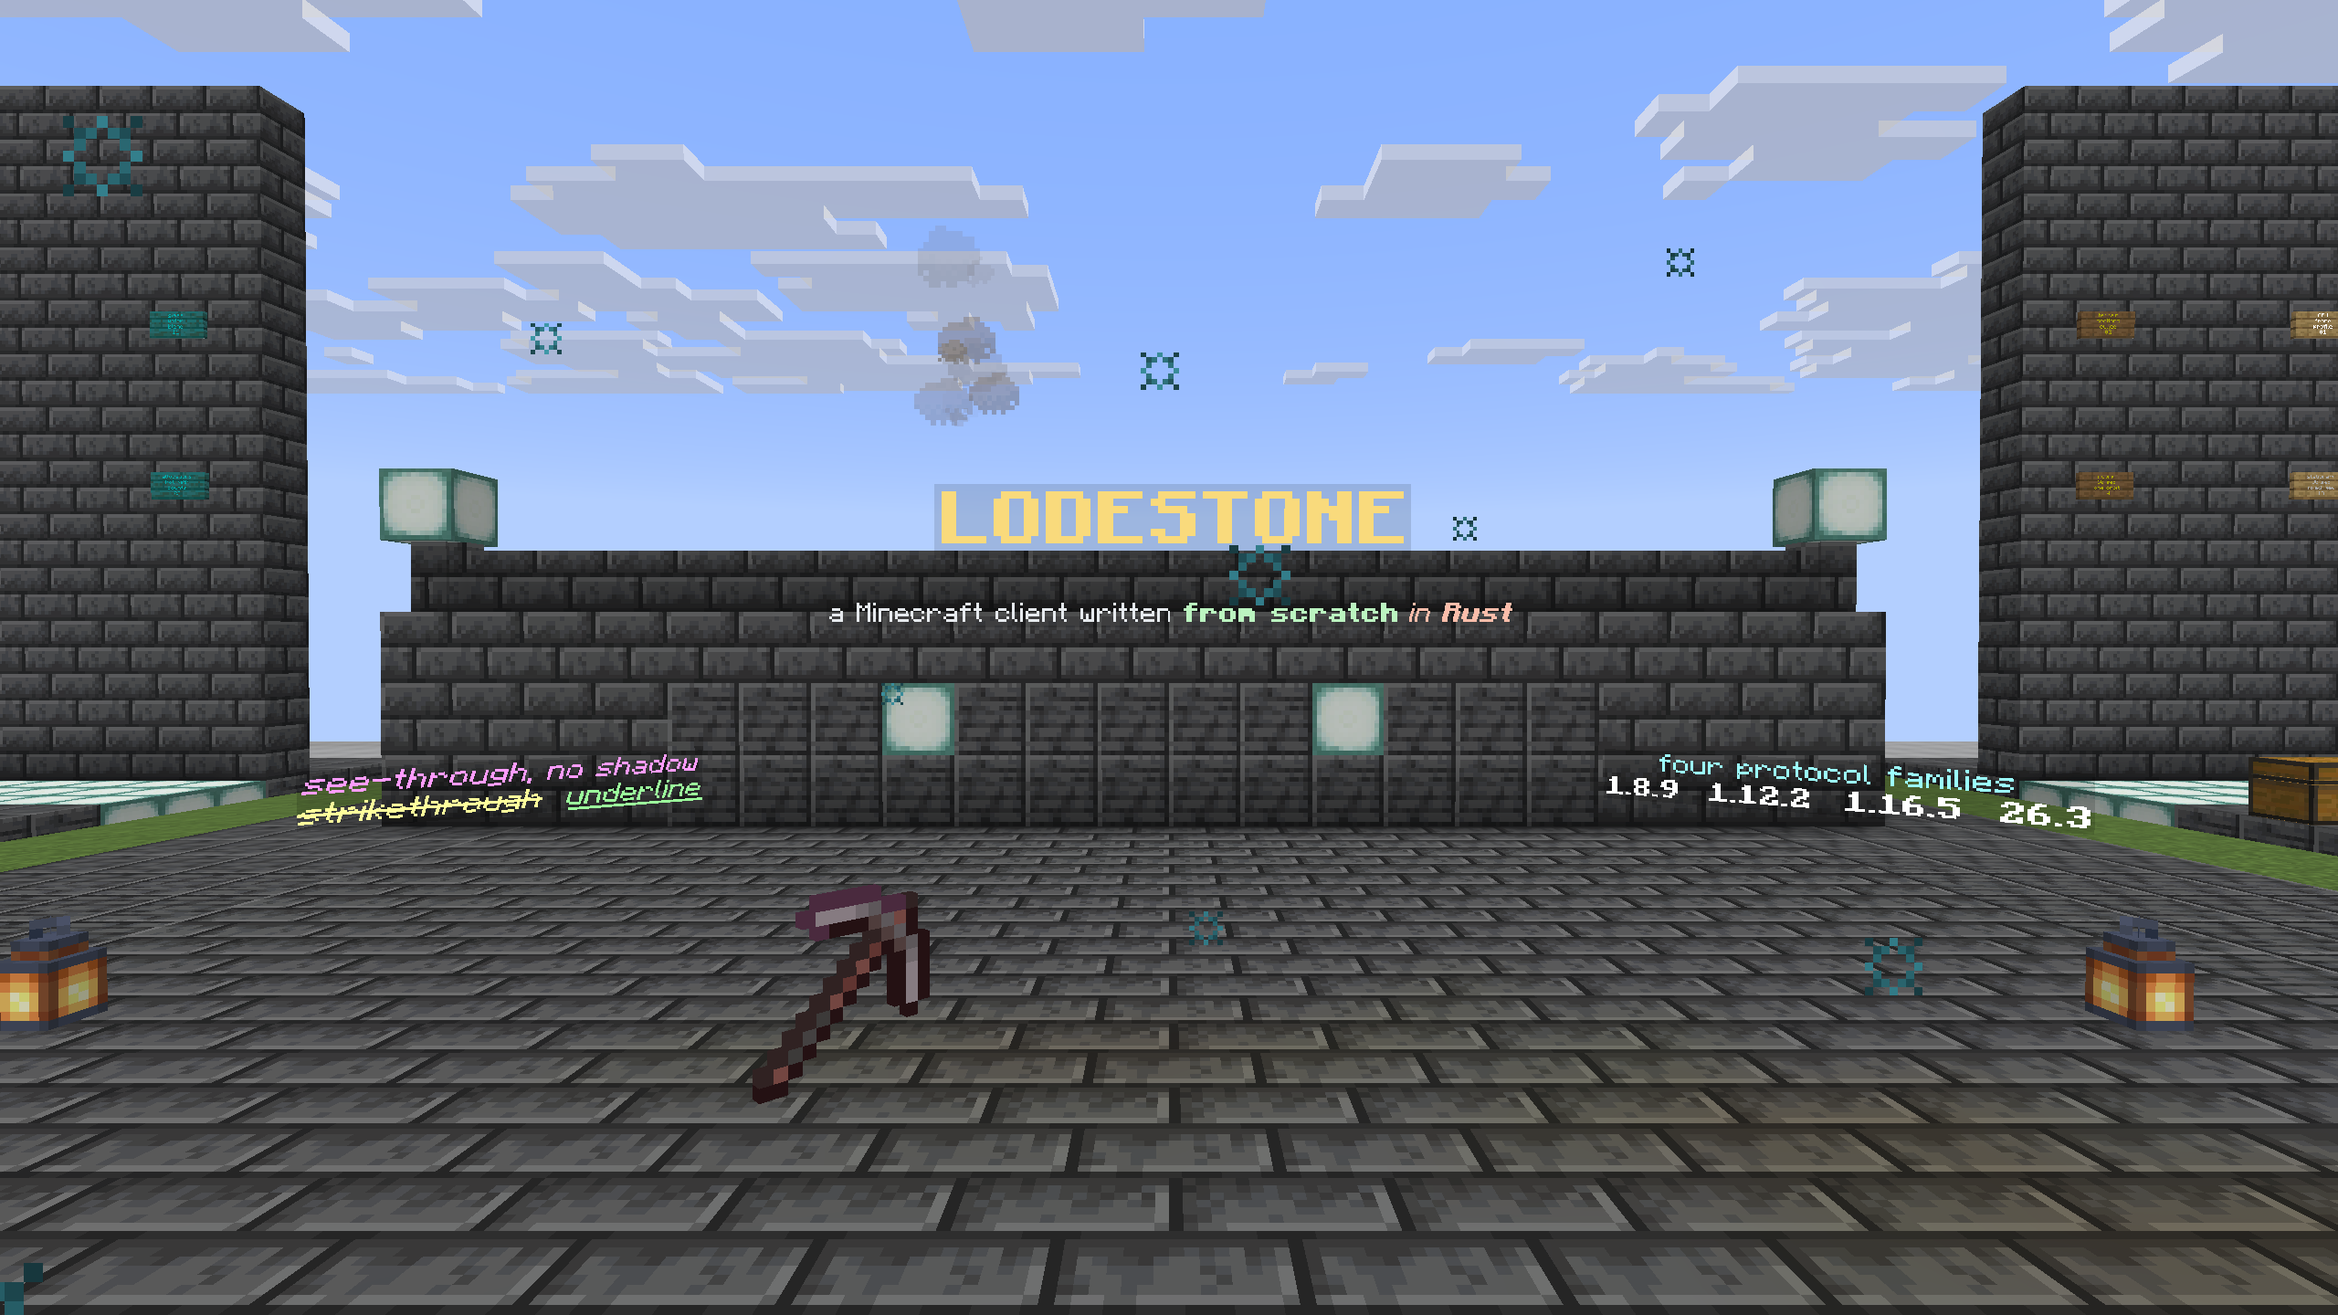
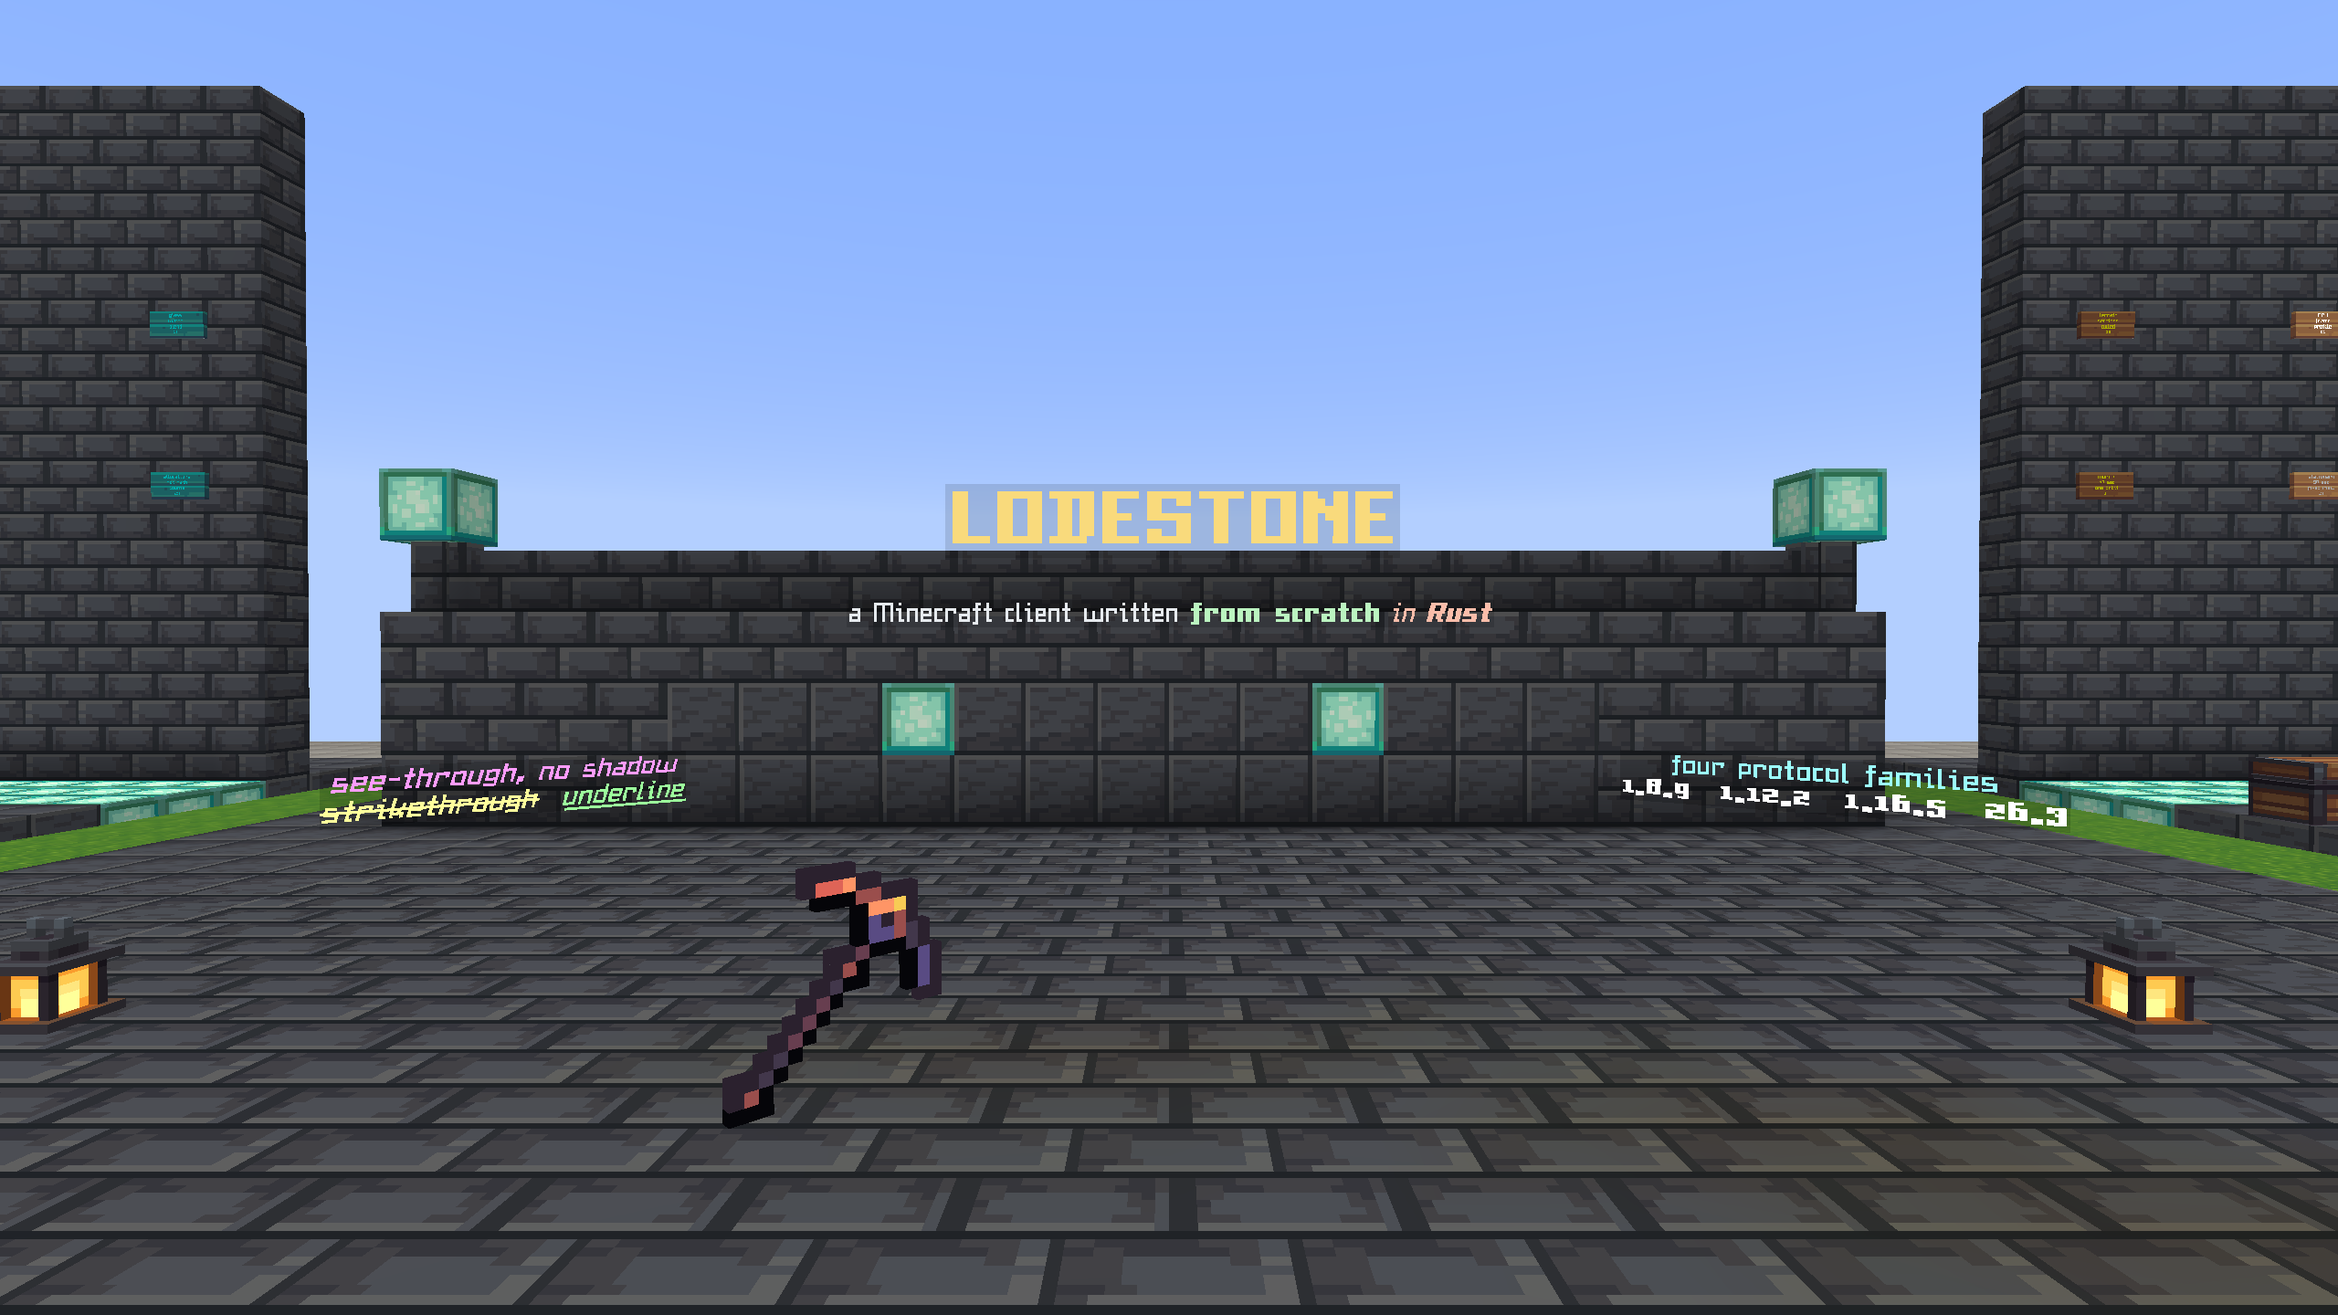
README capture is byte-reproducible: per-scene particle engine seed, command blocks disabled, companions drained and joined in order, tab-list ping pinned; committed images are the reproduced bytes

diff --git a/crates/lodestone-shell/tests/gpu/capture_screenshots.rs b/crates/lodestone-shell/tests/gpu/capture_screenshots.rs
@@ -87,7 +87,8 @@
 //!
 //! # Configuration
 //!
-//! `LODESTONE_SCENES` (optional filter). The oracle's ports and password are
+//! `LODESTONE_SCENES` (optional filter), `LODESTONE_CAPTURE_OUT` (optional output
+//! directory, default `docs/images`). The oracle's ports and password are
 //! the constants below, matching `scripts/live-oracles/creative.sh`. The
 //! harness clears its in-process selected resource packs before it constructs
 //! `Sim`, so committed PNGs always use the built-in 26.2 pack without changing
@@ -511,7 +512,9 @@ fn capture_configuration_uses_only_the_builtin_pack() {
 #[ignore = "capture harness: requires the flat creative 26.2 oracle on :25570 (+ RCON :25571), the vanilla assets under .cache/mc/<ver>, a GPU adapter, and `--features live`"]
 fn capture_readme_screenshots() {
     let scenes = scenes();
-    let out_dir = main_dir().join("docs/images");
+    let out_dir = std::env::var_os("LODESTONE_CAPTURE_OUT")
+        .map(std::path::PathBuf::from)
+        .unwrap_or_else(|| main_dir().join("docs/images"));
     std::fs::create_dir_all(&out_dir).expect("docs/images");
 
     let ctx = GpuContext::new_headless_blocking().expect(
@@ -553,6 +556,11 @@ fn capture_readme_screenshots() {
     checked(&mut rcon, "gamerule mob_drops false");
     checked(&mut rcon, "gamerule block_drops false");
     checked(&mut rcon, "gamerule mob_griefing false");
+    // The oracle world is shared with the benchmark scenes, which leave
+    // repeating command blocks emitting particle bursts at server-chosen
+    // moments. A burst that lands in a frame is placement noise the settle
+    // logic cannot see.
+    checked(&mut rcon, "gamerule command_blocks_work false");
     // Command feedback goes to *chat*, and the HUD scene photographs chat — a
     // run's own `/bossbar set` and `/tp` echoes would otherwise be most of
     // what the frame shows. RCON's own reply is unaffected (verified: a
@@ -620,7 +628,7 @@ fn capture_readme_screenshots() {
     rcon.cmd(&format!("gamemode creative {CAMERA_NAME}"));
 
     install_render_sources(&mut render, &sim, device, queue, format);
-    let companions = join_companions();
+    let companions = join_companions(&mut rcon);
     // The companions exist to be tab-list rows, not to stand in shot. Spectator
     // hides their bodies and their name plates from every other client, and a
     // spectator is still a tab-list entry — which is the whole of what they are
@@ -668,6 +676,11 @@ fn capture_readme_screenshots() {
             target = HeadlessTarget::new(device, w, h, format);
             render.resize(device, w, h);
         }
+        // Particle placement draws from the engine's random source, which a
+        // session seeds from the clock. A fresh engine seeded from the scene's
+        // own name makes each scene's particles a function of the scene alone,
+        // whatever ran before it and however long the join took.
+        sim.seed_particles(scene_seed(&scene.name));
         for command in &scene.commands {
             let reply = rcon.cmd(command);
             assert!(
@@ -718,10 +731,21 @@ fn capture_readme_screenshots() {
     }
 
     drop(companions);
+    wait_companions_gone(&mut rcon);
     println!("=== captured {} scene(s) ===", written.len());
     for (name, size) in &written {
         println!("  {name:<28} {size:>8} bytes");
     }
+}
+
+/// A fixed seed for a scene's particle engine: FNV-1a over its stem.
+fn scene_seed(name: &str) -> i64 {
+    let mut hash: u64 = 0xcbf2_9ce4_8422_2325;
+    for byte in name.bytes() {
+        hash ^= u64::from(byte);
+        hash = hash.wrapping_mul(0x0100_0000_01b3);
+    }
+    hash as i64
 }
 
 /// Render one scene and return its PNG bytes.
@@ -875,7 +899,13 @@ fn shoot(
     if scene.hud {
         let raw_view = frame.create_view(target.raw_view_format());
         let hotbar = hotbar_records(sim);
-        let tab = sim.tab_list_view();
+        // The signal-bar icon is the wall-clock round trip of the server's
+        // keep-alive, which varies run to run; every row is pinned to the
+        // full-strength icon.
+        let mut tab = sim.tab_list_view();
+        for row in &mut tab.rows {
+            row.ping_sprite = lodestone::tablist::ping_sprite(0);
+        }
         let sidebar = sim.sidebar();
         // Chat, boss bars and the action bar come from the same live session
         // fold the windowed client reads. `chat_spans`, not `chat`: a `§`
@@ -1280,6 +1310,46 @@ fn install_render_sources(
     }
 }
 
+/// The companion clients, kept alive for the run.
+///
+/// A client whose update channel is not drained stops reading its socket once
+/// the channel fills, answers no keep-alive, and is dropped by the server after
+/// thirty seconds — which removes its tab-list row and posts a "left the game"
+/// line into the chat the HUD scene photographs, at a moment that depends on
+/// how long the run took. A background thread drains them for the run, and
+/// dropping the guard disconnects them.
+struct Companions {
+    stop: std::sync::Arc<std::sync::atomic::AtomicBool>,
+    drain: Option<std::thread::JoinHandle<Vec<lodestone::net::NetClient>>>,
+}
+
+impl Drop for Companions {
+    fn drop(&mut self) {
+        self.stop.store(true, std::sync::atomic::Ordering::Release);
+        if let Some(drain) = self.drain.take() {
+            drop(drain.join());
+        }
+    }
+}
+
+/// Names from `COMPANIONS` the server currently lists as online.
+fn online_companions(rcon: &mut RconClient) -> Vec<&'static str> {
+    let listing = rcon.cmd("list");
+    COMPANIONS
+        .iter()
+        .copied()
+        .filter(|name| listing.contains(name))
+        .collect()
+}
+
+/// Waits (bounded) until none of the companions is online.
+fn wait_companions_gone(rcon: &mut RconClient) {
+    let deadline = Instant::now() + Duration::from_secs(15);
+    while !online_companions(rcon).is_empty() && Instant::now() < deadline {
+        std::thread::sleep(Duration::from_millis(200));
+    }
+}
+
 /// Join the extra clients whose only job is to be rows in the tab list.
 ///
 /// **Fixed names, not [`unique_username`]**, and that is a deliberate exception
@@ -1290,36 +1360,56 @@ fn install_render_sources(
 /// nothing here that can kill one; what a unique name would cost is the whole
 /// point of the image, since `E0_1k3j9fa2` is not a screenshot of a tab list.
 /// The camera client is put in creative on join for the same reason.
-fn join_companions() -> Vec<lodestone::net::NetClient> {
-    let clients: Vec<lodestone::net::NetClient> = COMPANIONS
-        .iter()
-        .map(|name| {
-            lodestone::net::NetClient::connect_as(
-                HOST.to_owned(),
-                PORT,
-                PROTOCOL,
-                None,
-                (*name).to_owned(),
-            )
-        })
-        .collect();
-    // Drain each one's update channel until it is in the world, so the camera
-    // client's own tab list has actually received them. Bounded — a companion
-    // that never arrives costs a thinner tab list, not a failed capture.
-    let deadline = Instant::now() + Duration::from_secs(20);
-    while Instant::now() < deadline {
-        let ready = clients
-            .iter()
-            .filter(|c| {
-                let _ = c.poll();
-                !c.loaded_chunks().is_empty()
-            })
-            .count();
-        if ready == clients.len() {
-            break;
+///
+/// They join one at a time, in `COMPANIONS` order, so the server's "joined the
+/// game" lines (the chat the HUD scene shows above its own messages) and the
+/// tab-list order never depend on connection races.
+fn join_companions(rcon: &mut RconClient) -> Companions {
+    // A companion left over from an earlier run, or a crashed one, would be
+    // kicked by the server when the same name logs in again and post a stray
+    // "left the game" line at an arbitrary moment.
+    for name in COMPANIONS {
+        rcon.cmd(&format!("kick {name}"));
+    }
+    wait_companions_gone(rcon);
+
+    let mut clients: Vec<lodestone::net::NetClient> = Vec::new();
+    for name in COMPANIONS {
+        let client = lodestone::net::NetClient::connect_as(
+            HOST.to_owned(),
+            PORT,
+            PROTOCOL,
+            None,
+            name.to_owned(),
+        );
+        // Drain until it is in the world, so the camera client's own tab list
+        // has received it before the next one connects. Bounded — a companion
+        // that never arrives costs a thinner tab list, not a failed capture.
+        let deadline = Instant::now() + Duration::from_secs(20);
+        while Instant::now() < deadline {
+            let _ = client.poll();
+            if !client.loaded_chunks().is_empty() {
+                break;
+            }
+            std::thread::sleep(Duration::from_millis(50));
         }
-        std::thread::sleep(Duration::from_millis(100));
+        clients.push(client);
     }
     let _ = unique_username();
-    clients
+
+    let stop = std::sync::Arc::new(std::sync::atomic::AtomicBool::new(false));
+    let flag = std::sync::Arc::clone(&stop);
+    let drain = std::thread::spawn(move || {
+        while !flag.load(std::sync::atomic::Ordering::Acquire) {
+            for client in &clients {
+                let _ = client.poll();
+            }
+            std::thread::sleep(Duration::from_millis(50));
+        }
+        clients
+    });
+    Companions {
+        stop,
+        drain: Some(drain),
+    }
 }

diff --git a/crates/lodestone-shell/src/particles.rs b/crates/lodestone-shell/src/particles.rs
@@ -2620,6 +2620,51 @@ mod tests {
         }
     }
 
+    /// Positions of the smoke a campfire emits over twenty block-entity ticks.
+    fn smoke_positions(particles: &mut Particles) -> Vec<(f64, f64)> {
+        for _ in 0..20 {
+            particles.campfire_block_entity_tick(&[([2, 64, 18], false)]);
+        }
+        particles
+            .engine
+            .particles()
+            .iter()
+            .map(|p| (p.x, p.z))
+            .collect()
+    }
+
+    #[test]
+    fn reseeding_makes_particle_placement_a_function_of_the_seed_alone() {
+        // Two engines the session seeded from the clock at different moments,
+        // then reseeded identically, place the same smoke in the same spots; a
+        // different seed places it elsewhere, so the equality is not vacuous.
+        let mut a = Particles::new(None);
+        let mut b = Particles::new(None);
+        a.reseed(77);
+        b.reseed(77);
+        let first = smoke_positions(&mut a);
+        assert!(!first.is_empty(), "twenty ticks of a campfire must emit smoke");
+        assert_eq!(first, smoke_positions(&mut b));
+
+        let mut c = Particles::new(None);
+        c.reseed(78);
+        assert_ne!(first, smoke_positions(&mut c));
+    }
+
+    #[test]
+    fn reseeding_drops_every_live_particle() {
+        let mut particles = Particles::new(None);
+        for _ in 0..50 {
+            particles.campfire_block_entity_tick(&[([2, 64, 18], true)]);
+        }
+        assert!(
+            !particles.engine.particles().is_empty(),
+            "control: fifty campfire ticks must have emitted smoke"
+        );
+        particles.reseed(1);
+        assert!(particles.engine.particles().is_empty());
+    }
+
     #[test]
     fn block_animate_tick_does_not_duplicate_the_block_entity_smoke_plume() {
         let mut particles = Particles::new(None);

diff --git a/crates/lodestone-shell/src/sim.rs b/crates/lodestone-shell/src/sim.rs
@@ -1269,6 +1269,17 @@ impl Sim {
         self.write(|w| w.resource_mut::<RayTarget>().0 = hit);
     }
 
+    /// Replaces the particle engine's random source with one seeded from
+    /// `seed`.
+    ///
+    /// A session seeds the engine from the clock, so two runs of the same
+    /// scene place their particles differently. A harness that needs repeatable
+    /// frames (the README capture) reseeds at a fixed point; live play never
+    /// calls this.
+    pub fn seed_particles(&mut self, seed: i64) {
+        self.particles_mut(|p| p.reseed(seed));
+    }
+
     /// Mutate the particle simulation in place, under the guard.
     ///
     /// For `O(1)` work only — one emission, installing a fixture. Anything that

diff --git a/crates/lodestone-shell/src/particles/lifecycle.rs b/crates/lodestone-shell/src/particles/lifecycle.rs
@@ -55,6 +55,12 @@ impl Particles {
         }
     }
 
+    /// Replaces the engine with a fresh one seeded from `seed`, dropping every
+    /// live particle. The sprite tables are untouched.
+    pub fn reseed(&mut self, seed: i64) {
+        self.engine = ParticleEngine::seeded(seed);
+    }
+
     /// Attaches (or clears, with `None`) the stitched particle-sheet atlas
     /// that resolves [`SpriteSource::Sheet`] particles — smoke, flame, crits,
     /// splashes, and the rest of `lodestone_particle::Sheet`.

diff --git a/docs/screenshots.md b/docs/screenshots.md
@@ -32,8 +32,10 @@ iteration.
 
 ### Settling the world before the shot
 
-A capture with no code change reproduces the committed PNG's exact bytes. Getting
-there needed two independent settle mechanisms, not one: **`@wait`** pumps the
+A capture with no code change reproduces the committed PNG's exact bytes (checked
+by running the capture twice into separate `LODESTONE_CAPTURE_OUT` directories and
+comparing hashes; all five scenes match). Getting there needed two independent
+settle mechanisms, not one: **`@wait`** pumps the
 simulation with `dt = 0` (so RCON edits travel over the socket and get meshed
 without advancing any game tick) until 40 consecutive frames upload no section,
 remove none, and see no change in loaded-column count — a floor on wall-clock time,
@@ -45,6 +47,28 @@ than "whatever the machine managed in a wall-clock window". The join itself is t
 one phase that cannot be made tick-free (a client that never ticks never sends a
 position), so its variable cost is absorbed by winding the clock up to a fixed base
 tick before the first scene runs.
+
+### Everything else that was wall-clock or arrival order
+
+Four more sources of run-to-run difference were found by diffing two captures and
+removing each until none remained:
+
+- **Particle placement.** The particle engine seeds itself from the clock. Each
+  scene calls `Sim::seed_particles` with an FNV-1a hash of its stem before its
+  commands run, which replaces the engine with a fresh one. Without it four of the
+  five scenes differ between runs, even with everything below fixed.
+- **Command blocks left in the oracle world.** The benchmark scenes leave repeating
+  command blocks that emit particle bursts. The harness sets
+  `gamerule command_blocks_work false`.
+- **Companion clients.** A companion whose update channel is not drained stops
+  answering keep-alives and is dropped by the server thirty seconds after joining,
+  which removed its tab-list row and posted "left the game" into the chat the HUD
+  scene photographs. A background thread now drains them for the run. They also
+  join one at a time in a fixed order, and any same-named leftover is kicked
+  first, so the "joined the game" lines above the scene's own chat are the same
+  every run.
+- **Tab-list ping bars.** The icon is the wall-clock round trip of the server's
+  keep-alive, so the harness pins every row to the full-strength icon.
 
 ### The control
 
@@ -112,6 +136,7 @@ Gotchas, each of which cost a real run:
 | | |
 |---|---|
 | `LODESTONE_SCENES` | comma-separated scene stems to capture; unset captures all |
+| `LODESTONE_CAPTURE_OUT` | output directory instead of `docs/images` (use it to compare two runs without touching the committed files) |
 | oracle | `127.0.0.1:25570` game, `:25571` RCON, password `lodestone` (`scripts/live-oracles/creative.sh`) |
 | output | `docs/images/<scene stem>.png` |
 
